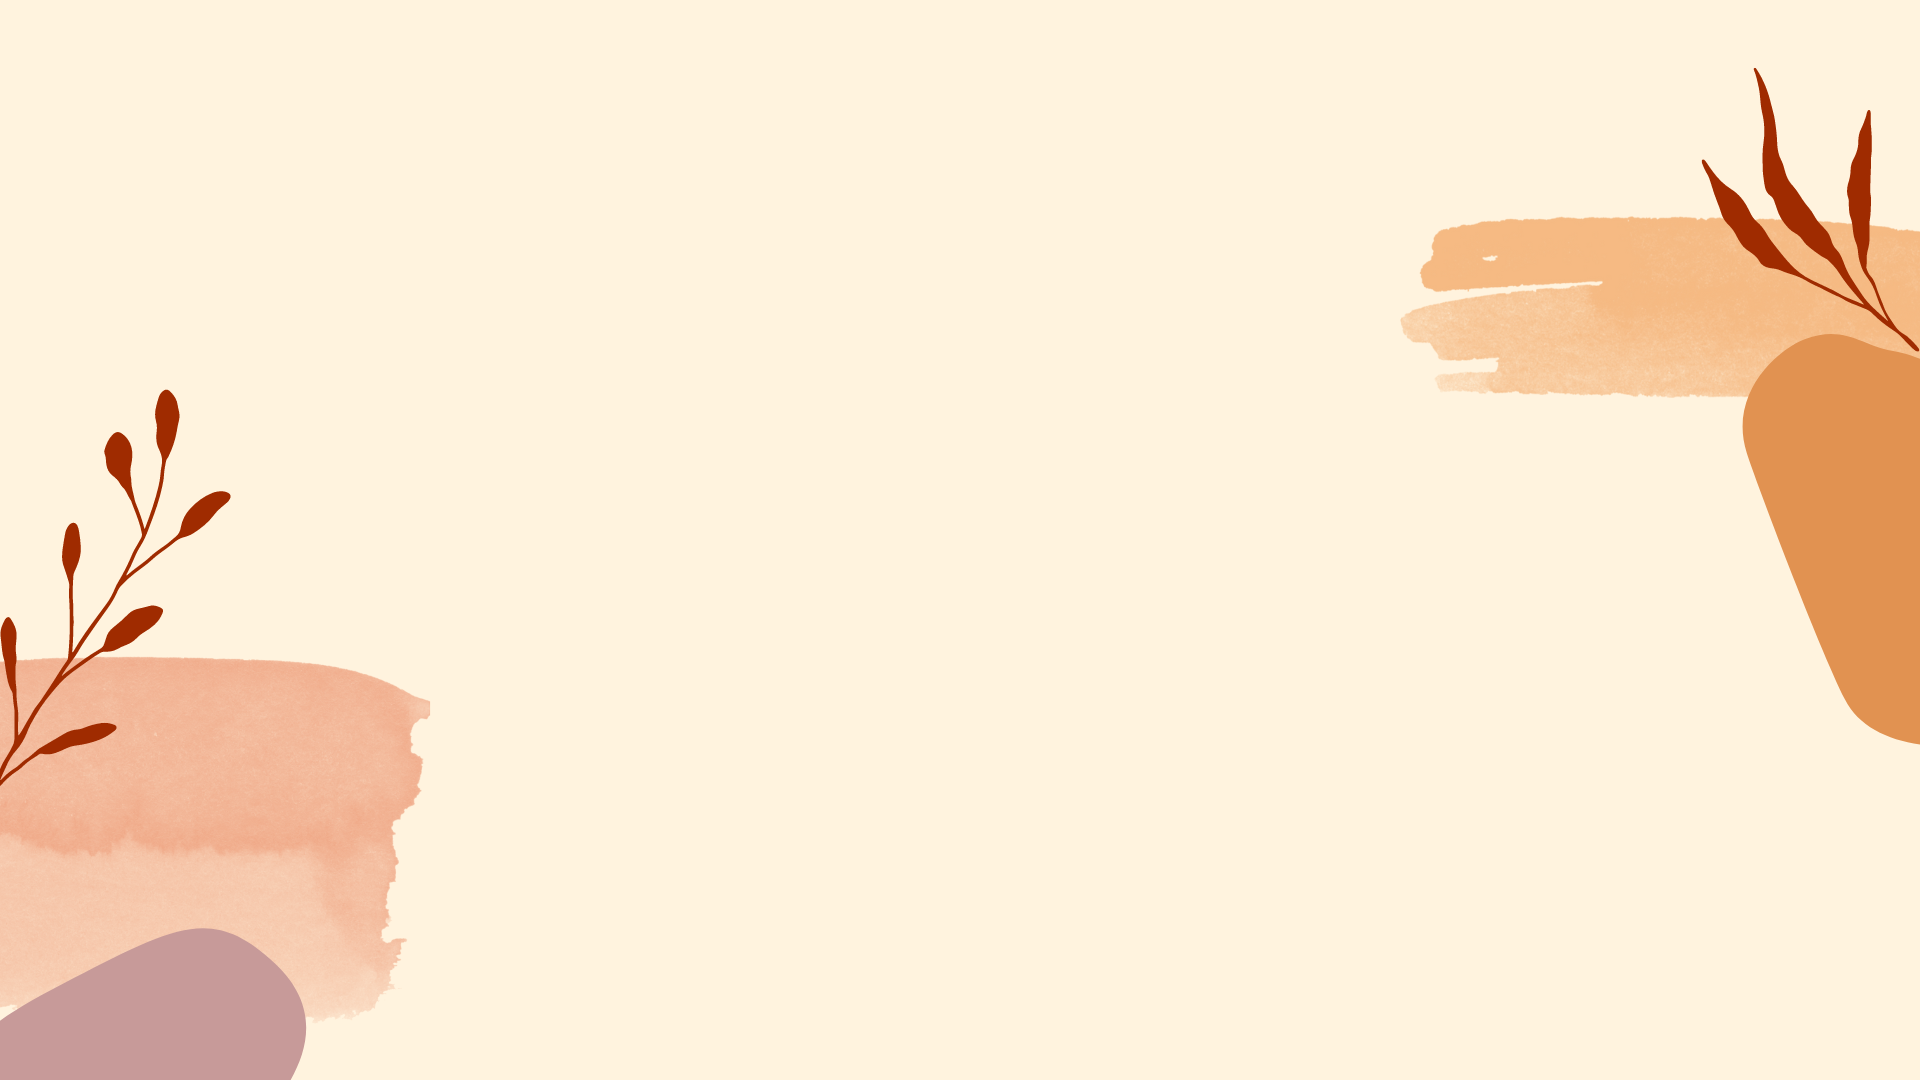
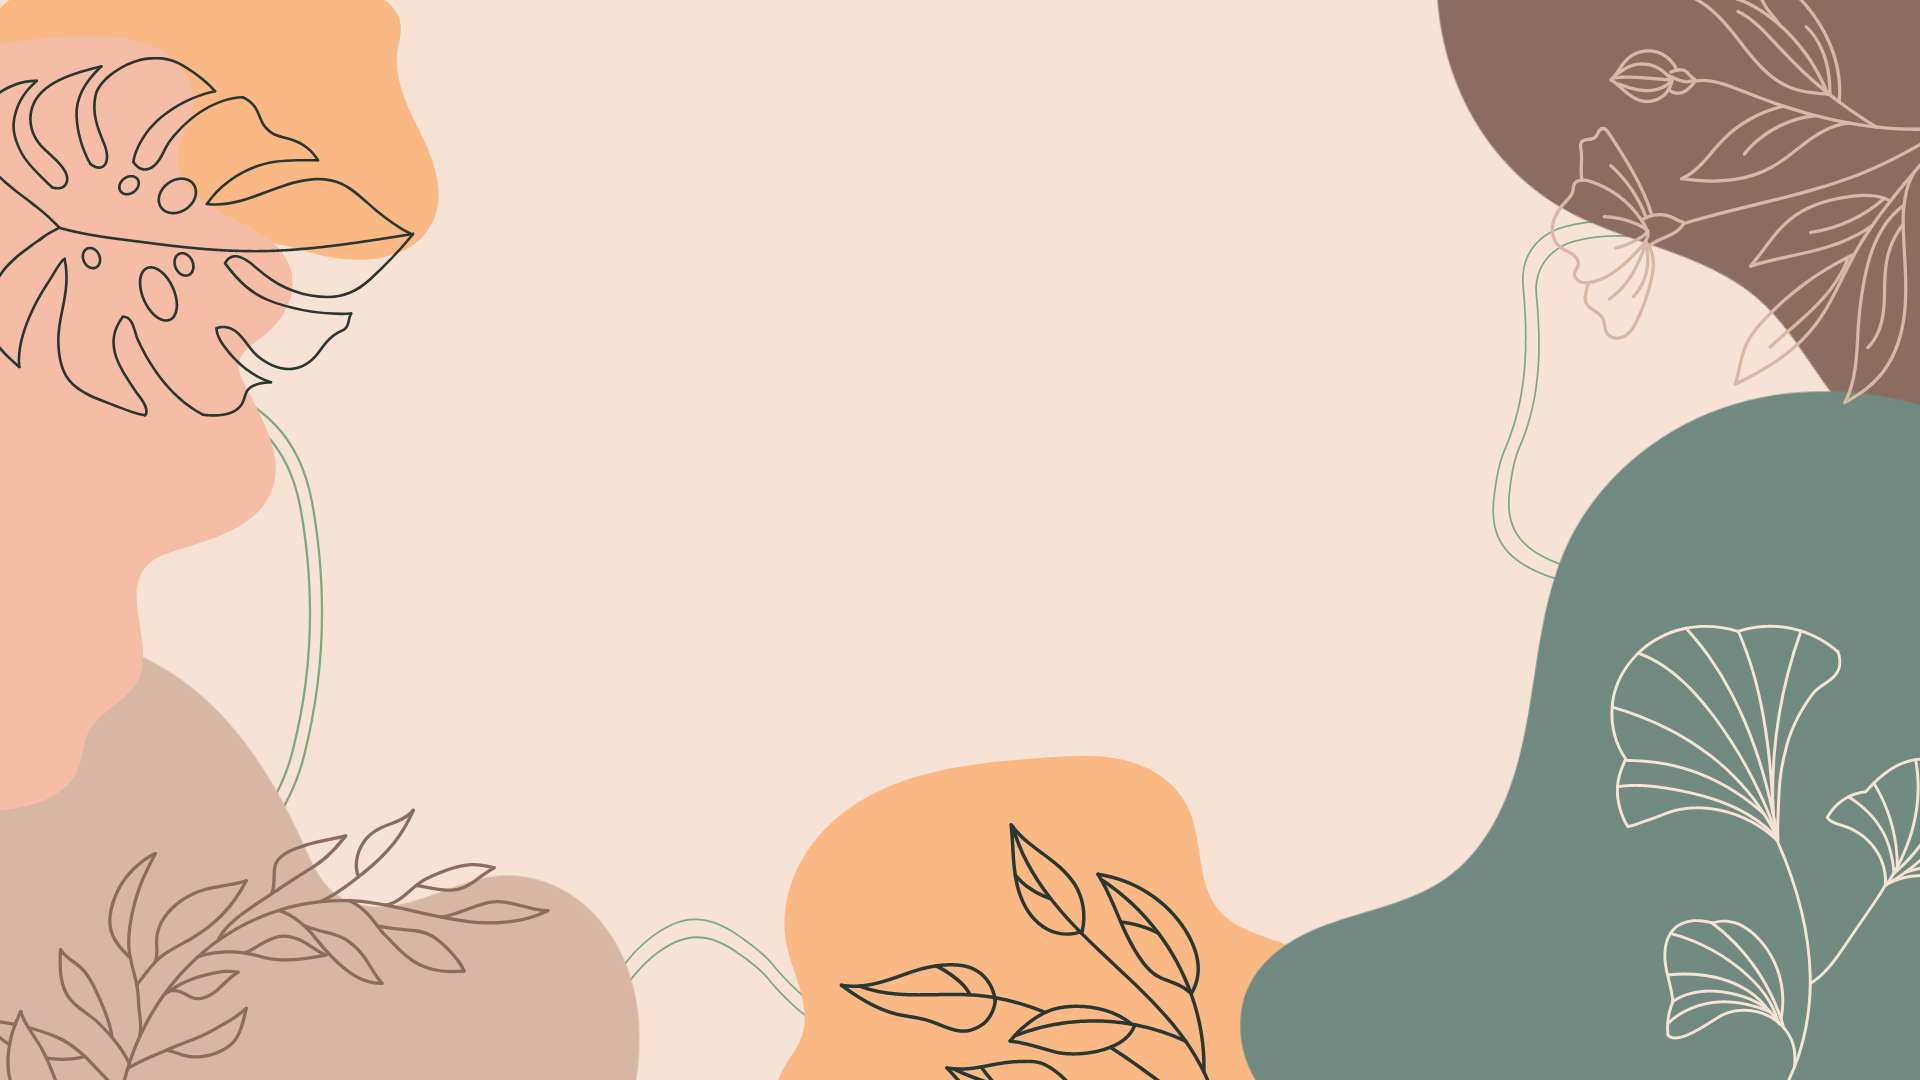
finished project

diff --git a/src/css/Home.css b/src/css/Home.css
@@ -1,7 +1,25 @@
 .main {
+    background-color: rgba(255, 255, 255, 0.747);
+    padding: 25px;
+    height: 30vh;
+}
+
+.main-action {
+    border-top-left-radius: 25px;
+    border-top-right-radius: 25px;
+}
+
+.main-data {
+    border-bottom-left-radius: 25px;
+    border-bottom-right-radius: 25px;
     height: auto;
+    overflow: hidden;
     overflow-y: scroll;
-    max-height: 65vh;
+    max-height: 50vh !important;
+}
+
+.spacing {
+    height: 125px;
 }
 
 .event-pending {
@@ -18,8 +36,14 @@
 
 .event-ongoing {
     display: flex !important;
-    background-color: rgba(87, 255, 9, 0.8) !important;
-    border: #9E9E9E !important;
+    background-color: rgb(116, 156, 117, 0.8) !important;
+    border: rgb(116, 156, 117) !important;
+}
+
+.event-ongoing:hover {
+    display: flex !important;
+    background-color: rgba(99, 133, 100, 0.8) !important;
+    border: rgb(116, 156, 117) !important;
 }
 
 .event-pending:hover {
@@ -34,25 +58,18 @@
     border: rgba(124, 124, 124, 1.0) !important;
 }
 
-.event-pending:focus {
-    border-color: #ab7045 !important;
-    box-shadow: 0 0 0 0.25rem #ab7045 !important;
-}
-
-.event-done:focus {
+.event-pending:focus, .event-done:focus, .event-ongoing:focus, .new-button:focus, .form-select:focus, .form-select:hover, .form-control:hover {
     border-color: #ab7045 !important;
     box-shadow: 0 0 0 0.25rem #ab7045 !important;
 }
 
 .buttons {
-    padding-top: 135px;
     display: flex;
     justify-content: center;
     align-items: center;
 }
 
 .filter-container {
-    padding-bottom: 25px;
     display: flex;
     justify-content: space-evenly;
     align-items: center;
@@ -61,25 +78,12 @@
 .new-button {
     background-color: #749c75 !important;
     border: #749c75 !important;
-    padding: 14px 40px !important;
+    padding: 14px 50px !important;
+    font-size: 20px !important;
 }
 
 .new-button:hover {
     background-color: #5d7e5e !important
-}
-
-.new-button:focus {
-    border-color: #ab7045 !important;
-    box-shadow: 0 0 0 0.25rem #ab7045 !important;
-}
-
-.form-select:hover {
-    box-shadow: 0 0 0 0.25rem #5d7e5e !important;
-}
-
-.form-select:focus {
-    border-color: #ab7045 !important;
-    box-shadow: 0 0 0 0.25rem #ab7045 !important;
 }
 
 ::-webkit-scrollbar, ::-webkit-scrollbar-thumb, ::-webkit-scrollbar-track, ::-webkit-scrollbar-track-piece  {

diff --git a/src/pages/Home.js b/src/pages/Home.js
@@ -32,7 +32,8 @@ export default function Home(){
 
     return(
         <>
-            <Container className="fixed">
+            <Container className="spacing"></Container>
+            <Container className="main main-action fixed">
                 <Row className="buttons">
                     <Col className="new">
                         <Button className="new-button my-3" as={Link} to="/form/create">
@@ -56,7 +57,7 @@ export default function Home(){
 
                     <Col className="filter col-6">
                         <Form.Group className="mb-3" controlId="formEventSearch">
-                            <Form.Label>Search</Form.Label>
+                            <Form.Label><strong>Search</strong></Form.Label>
                             <Form.Control type="text" placeholder="Search event name" value={name}
                             onChange={event => setName(event.target.value)} />
                         </Form.Group>
@@ -64,7 +65,7 @@ export default function Home(){
                 </Row>
             </Container>
 
-            <Container className="main flex">
+            <Container className="main main-data flex">
                 {events.map((event , key) => (
                     <Row className="my-2 mx-3" key={key}>
                         <Button variant="primary" size="lg" className={eventClass(event.status)} as={Link} to={"/form/" + event.id}>

diff --git a/src/components/AppNavbar.js b/src/components/AppNavbar.js
@@ -6,7 +6,7 @@ export default function AppNavbar() {
     return(
         <>
             <Navbar className="appBar py-4 fixed-top">
-                <Navbar.Brand as={Link} to="/">
+                <Navbar.Brand className="brand" as={Link} to="/">
                     <img
                     src="../logo.png"
                     width="50"

diff --git a/src/App.css b/src/App.css
@@ -6,13 +6,13 @@
 }
 
 .main-container {
-  background-image: url(../public/bg.png);
+  background-image: url(../public/bg3.png);
   background-position: center center;
   background-attachment: fixed;
   background-repeat: no-repeat; 
   background-size: cover;
   height: auto;
-  width: auto;
+  max-width: 100%;
   min-height: 100vh;
 }
 

diff --git a/src/pages/EventForm.js b/src/pages/EventForm.js
@@ -78,6 +78,7 @@ export default function Create() {
 
     return(
         <>
+            <Container className="spacing"></Container>
             <Container className="create-container px-5">
                 <Form onSubmit={event => manageForm(event)}>
                     <Form.Group className="mb-3" controlId="formEventName">

diff --git a/src/css/Form.css b/src/css/Form.css
@@ -1,5 +1,7 @@
 .create-container {
-    padding-top: 135px;
+    background-color: rgba(255, 255, 255, 0.747);
+    padding: 25px;
+    border-radius: 25px;
 }
 
 .create-button {

diff --git a/src/css/AppNavbar.css b/src/css/AppNavbar.css
@@ -6,3 +6,7 @@
     color: #fff !important;
     font-size: 35px !important;
 }
+
+.brand {
+    margin-left: 20px;
+}
